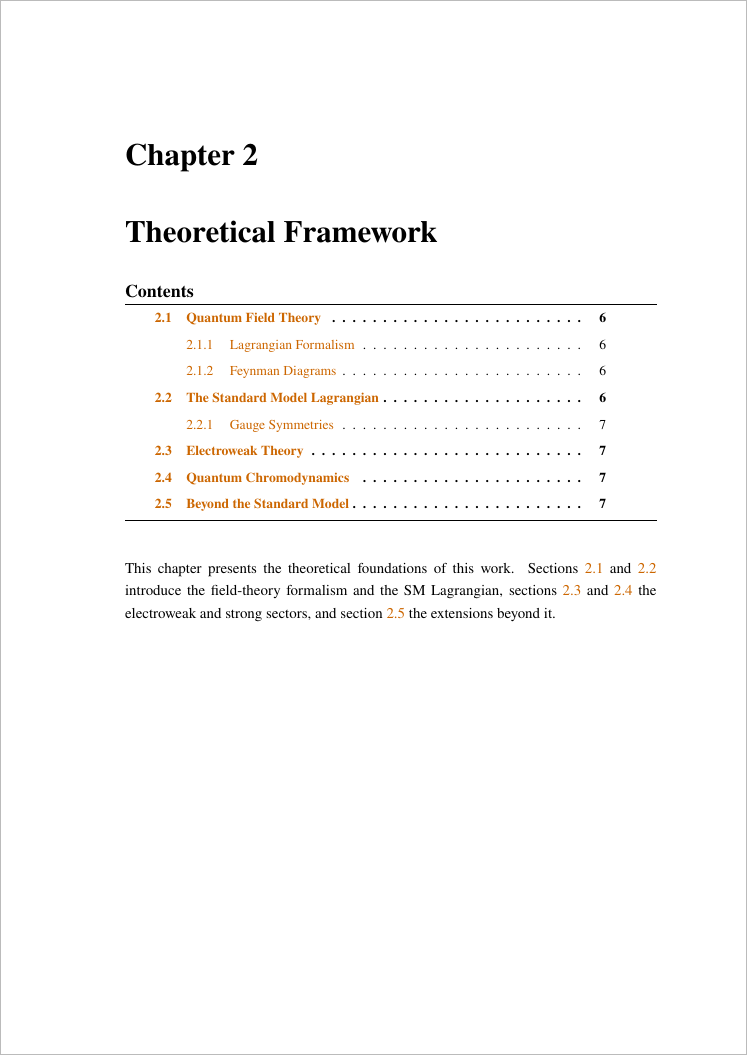
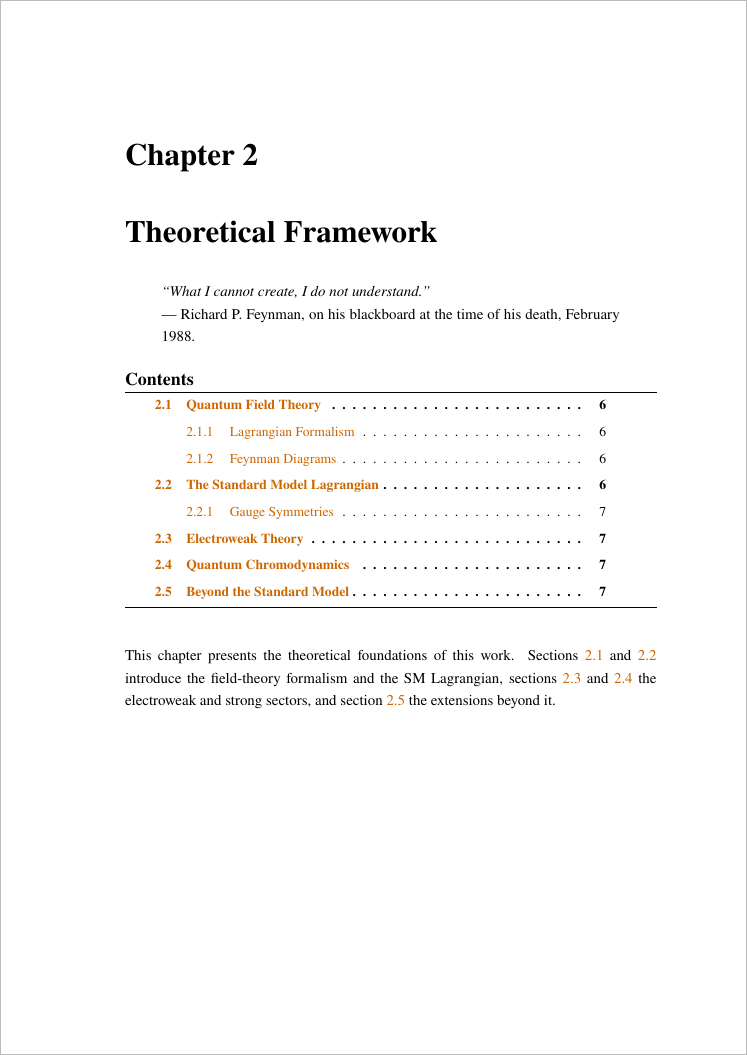
feat: minimal title page as default, chapter epigraphs on
- chapters/titlepages/minimal.tex: left-aligned title page in the body
  fonts with one accent rule; degree details and directors at the foot.
  uam and default stay selectable through \titlepagestyle.
- \showquotestrue, so the chapter openings show the optional epigraph.
- Rescan babel's \languagename before biblatex records it: inside
  otherlanguage{spanish} its first letter has catcode 12, which never
  matched the .aux load request and left every build asking to rerun.
- README: refreshed showcase, the three title page styles side by side,
  quotes documented as on by default.

diff --git a/chapters/titlepages/minimal.tex b/chapters/titlepages/minimal.tex
@@ -1,0 +1,47 @@
+% Minimal title page (style: minimal).
+% Left-aligned on the text block, in the body fonts and the accent palette of
+% references/style/main.tex: a short accent rule over the title, the author
+% below it, and the degree information set small at the foot of the page.
+\newcommand{\minimalmuted}{\color{black!60}}
+% Directors from the comma-separated \thesisdirectors, joined by commas; the
+% "Supervised by" line is omitted when the list is empty.
+\ExplSyntaxOn
+\NewDocumentCommand{\minimaldirection}{}{
+  \clist_set:No \l_tmpa_clist {\thesisdirectors}
+  \clist_if_empty:NF \l_tmpa_clist {
+    {\minimalmuted Supervised~by}\quad \clist_use:Nn \l_tmpa_clist {,~} \par
+  }
+}
+\ExplSyntaxOff
+% Month and year of the build, e.g. "October 2026"
+\newcommand{\minimaldate}{\ifcase\month\or January\or February\or March\or April\or May\or June\or
+  July\or August\or September\or October\or November\or December\fi\ \number\year}
+
+\begin{titlepage}
+  \raggedright
+  \setlength{\parskip}{0pt}
+
+  {\small\minimalmuted\MakeUppercase{Doctoral Thesis}\par}
+  \vspace*{0.2\textheight}
+
+  {\color{accentOrange}\rule{2.5cm}{1.5pt}\par}
+  \vspace{1.2em}
+
+  {\fontsize{28}{34}\selectfont\bfseries\hyphenchar\font=-1 \thesistitle\par}
+  \vspace{1em}
+  {\Large\minimalmuted \thesissubtitle\par}
+
+  \vspace{3.5em}
+  {\Large \thesisauthor\par}
+
+  \vfill
+
+  {\small
+    \begin{spacing}{1.3}
+      Programme in \thesisprogramme\par
+      \thesisuniversity\ \textperiodcentered\ \thesisinstitution\par
+      \minimaldirection
+      \vspace{0.6em}
+      {\minimalmuted \minimaldate\par}
+    \end{spacing}}
+\end{titlepage}

diff --git a/thesis.tex b/thesis.tex
@@ -58,6 +58,18 @@
 % Titles are stored in sentence case in references.bib; print them as written
 % (biblatex-phys would otherwise lower-case acronyms and proper names).
 \DeclareFieldFormat{titlecase}{#1}
+% Inside otherlanguage{spanish} babel's \languagename starts with a catcode-12 "s",
+% which never matches the "spanish" biblatex reads back from the .aux, so every
+% run ends with "Please rerun LaTeX". Rescan the name with the current catcodes.
+\makeatletter
+\let\thesis@langsetup@indoc\blx@langsetup@indoc
+\ExplSyntaxOn
+\protected\def\blx@langsetup@indoc#1{
+  \tl_set_rescan:Nnn \l_tmpa_tl {} {#1}
+  \exp_args:NV \thesis@langsetup@indoc \l_tmpa_tl
+}
+\ExplSyntaxOff
+\makeatother
 \setlength{\emergencystretch}{3em}
 % URLs and arXiv numbers may break after any character, without stretching the
 % space between characters (stretched URLs read as "arXiv:1807 . 06209").
@@ -330,8 +342,9 @@
 \date{\today}
 
 % Title page style — selects chapters/titlepages/<style>.tex.
-% Available: default (plain), uam (UAM Escuela de Doctorado official cover)
-\newcommand{\titlepagestyle}{uam}
+% Available: minimal (accent rule, left-aligned), default (plain, centred),
+% uam (UAM Escuela de Doctorado official cover)
+\newcommand{\titlepagestyle}{minimal}
 
 \begin{document}
 

diff --git a/references/style/main.tex b/references/style/main.tex
@@ -15,7 +15,7 @@
 
 % Chapter epigraphs (references/quotes/quotes.tex): \showquotestrue to print them
 \newif\ifshowquotes
-\showquotesfalse
+\showquotestrue % \showquotesfalse hides every epigraph
 \newcommand{\chaptertitleblock}[3]{%
   \ifshowquotes\if\relax\detokenize{#1}\relax
   \else

diff --git a/README.md b/README.md
@@ -18,9 +18,9 @@ Pages of the PDF that this repository compiles to, with its placeholder content.
     <td width="33%"><img src="docs/showcase/chapter_opening.png" alt="Chapter opening"></td>
   </tr>
   <tr>
-    <td><b>Title page</b> — official UAM Escuela de Doctorado cover, filled in from the metadata macros (<code>\titlepagestyle{uam}</code>; a plain <code>default</code> style is included).</td>
+    <td><b>Title page</b> — <code>minimal</code> style: left-aligned on the text block, one accent rule, degree details at the foot; filled in from the metadata macros. The official UAM cover and a plain centred page are alternatives (<a href="#titlepagestyle--stylized-title-pages"><code>\titlepagestyle</code></a>).</td>
     <td><b>Contents</b> — unnumbered Motivation, Conclusiones and Summary listed alongside the numbered chapters; coloured links throughout.</td>
-    <td><b>Chapter opening</b> — chapter mini table of contents and an opening summary that points to every section (<code>\chaptertitleblock</code>; an epigraph can be switched on).</td>
+    <td><b>Chapter opening</b> — optional epigraph, chapter mini table of contents and an opening summary that points to every section (<code>\chaptertitleblock</code>; quotes switch off with <code>\showquotesfalse</code>).</td>
   </tr>
   <tr>
     <td><img src="docs/showcase/body.png" alt="Body text"></td>
@@ -46,7 +46,7 @@ cathersis/
 ├── STYLEGUIDE.md                 # Writing and formatting conventions
 ├── chapters/
 │   ├── titlepage.tex             # Title page dispatcher (\titlepagestyle)
-│   ├── titlepages/               # Title page styles: default.tex, uam.tex
+│   ├── titlepages/               # Title page styles: minimal.tex, default.tex, uam.tex
 │   ├── acknowledgements.tex      # Acknowledgements + statement of personal contribution
 │   ├── abstract.tex              # Resumen (Spanish) + Abstract
 │   ├── 0_chapter/                # Unnumbered Motivation
@@ -180,15 +180,29 @@ pdflatex '\def\REVIEWBUILD{1}\input{thesis.tex}'
 Selects which cover is typeset from `chapters/titlepages/<style>.tex`. Set it in the `thesis.tex` preamble, next to the metadata macros (`\thesistitle`, `\thesisauthor`, `\thesisprogramme`, `\thesisdirectors`, …) that every style reads:
 
 ```latex
-\newcommand{\titlepagestyle}{uam}   % or: default
+\newcommand{\titlepagestyle}{minimal}   % or: default, uam
 ```
 
 | Style     | Description |
 |-----------|-------------|
+| `minimal` | Left-aligned title in the body fonts under a short accent rule; author below; programme, university, institution, directors and month/year set small at the foot (current setting). |
 | `default` | Plain centred title page. |
 | `uam`     | Official Universidad Autónoma de Madrid (Escuela de Doctorado) cover: Roboto Condensed, UAM logo from `figures/titlepage/`. |
 
-To add a style, create `chapters/titlepages/<name>.tex` containing a `titlepage` environment. An unknown style falls back to `default` with a warning. The `uam` style positions elements with a TikZ overlay, so it needs two compile passes.
+To add a style, create `chapters/titlepages/<name>.tex` containing a `titlepage` environment. An unknown style falls back to `default` with a warning. The `uam` style draws the cover as a TikZ overlay at fixed fractions of the page, independent of the text margins.
+
+<table>
+  <tr>
+    <td width="33%"><img src="docs/showcase/title_page.png" alt="minimal title page"></td>
+    <td width="33%"><img src="docs/showcase/title_page_default.png" alt="default title page"></td>
+    <td width="33%"><img src="docs/showcase/title_page_uam.png" alt="uam title page"></td>
+  </tr>
+  <tr>
+    <td align="center"><code>minimal</code></td>
+    <td align="center"><code>default</code></td>
+    <td align="center"><code>uam</code></td>
+  </tr>
+</table>
 
 ### `\ifshowquotes` — chapter epigraphs
 
@@ -196,11 +210,11 @@ Each chapter opens with `\chaptertitleblock{quote}{attribution}{summary}` (defin
 
 ```latex
 \newif\ifshowquotes
-\showquotesfalse   % quotes hidden (current setting)
+\showquotestrue   % quotes printed (current setting)
 ```
 
-- **Activate:** change `\showquotesfalse` to `\showquotestrue` and rebuild. Every chapter prints its quote above the summary.
-- **Deactivate:** set it back to `\showquotesfalse`. The summary and minitoc are typeset as before; only the quote block is dropped.
+- **Deactivate:** change `\showquotestrue` to `\showquotesfalse` and rebuild. The summary and minitoc are typeset as before; only the quote block is dropped.
+- **Activate:** set it back to `\showquotestrue`. Every chapter prints its quote above the minitoc.
 
 The switch acts on all chapters at once. The quote texts and the `\QuoteChN`/`\AttribChN` arguments in the chapter files stay in place, so nothing else has to change. A chapter with an empty first argument never prints a quote. Toggling the quotes changes the length of the chapter openings, so check the page ends (`\ifpagecount`) after switching.
 
